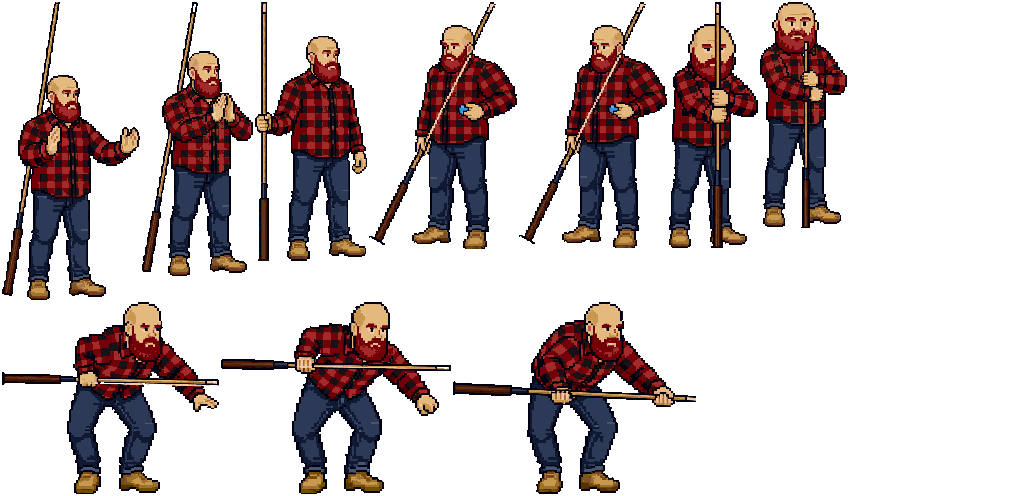
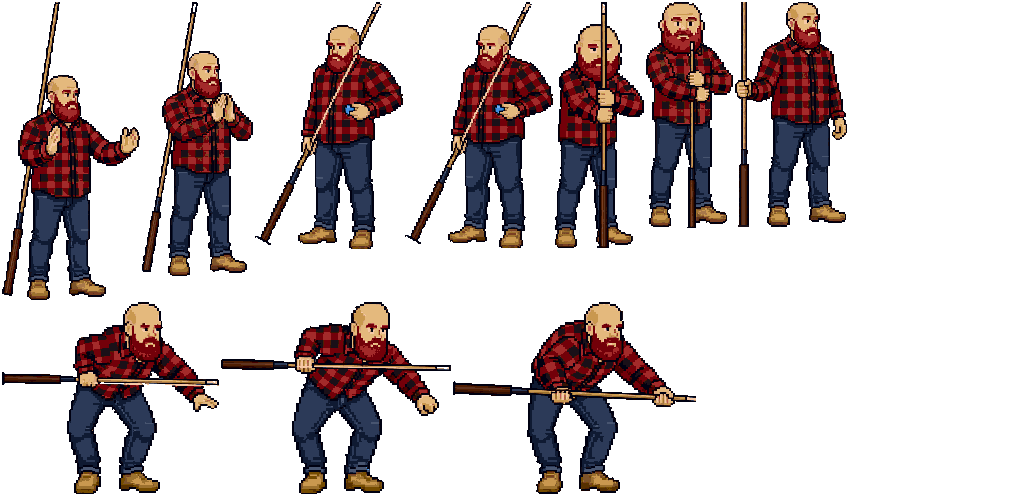
art: C's cue doesn't count toward his standing height
Claude-Session: https://claude.ai/code/session_01ALj27RqsABne97dpmb7emV
Tillandsias-Host: macuahuitl
Generated-By: tool=claude-code

Changed region(s): [[0.25, 0.0, 0.8438, 0.5444]]

diff --git a/tool/art/pipeline/finish_picks.py b/tool/art/pipeline/finish_picks.py
@@ -16,6 +16,7 @@ from pathlib import Path
 
 import numpy as np
 from PIL import Image
+from scipy import ndimage as ndi
 
 sys.path.insert(0, str(Path(__file__).resolve().parent))
 import definitions as D  # noqa: E402
@@ -56,6 +57,12 @@ def main() -> None:
     for pose, source in doc.get("alias", {}).items():
         Image.open(final / f"{source}.png").save(final / f"{pose}.png")
         selection[pose] = {"k": f"same drawing as {source}", "accepted": True}
+    for pose in doc.get("trimCue", []):
+        # The game reads standing height from the reference drawing's rect, so a cue above the head would shrink them.
+        im = np.asarray(Image.open(final / f"{pose}.png").convert("RGBA")).copy()
+        body = ndi.binary_opening(im[..., 3] > 0, structure=np.ones((8, 8)))
+        im[:int(np.where(body.any(axis=1))[0].min())] = 0
+        Image.fromarray(im, "RGBA").save(final / f"{pose}.png")
     (run_dir / "selection.json").write_text(json.dumps(selection, indent=1) + "\n")
     subprocess.run([sys.executable, "tool/art/pipeline/pack_atlas.py", f"tool/art/families/{c['family']}.json", "--run", a.run], check=True)
 
